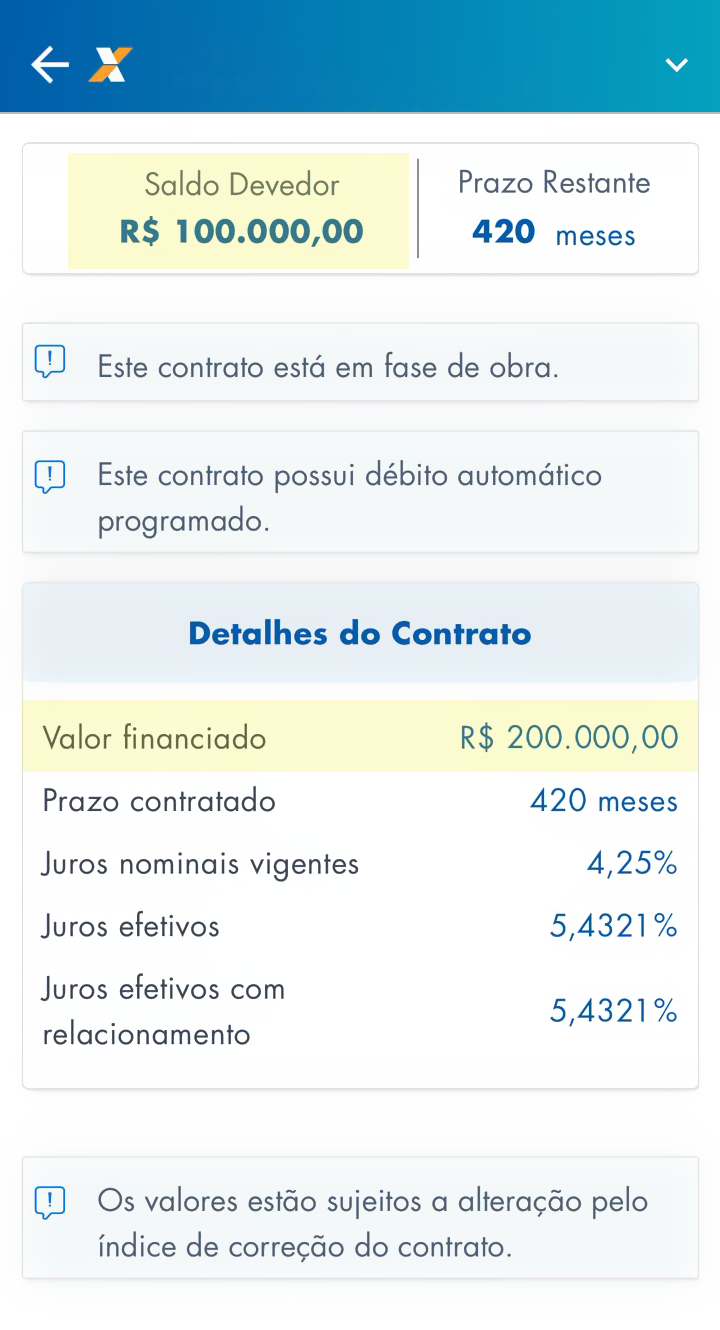
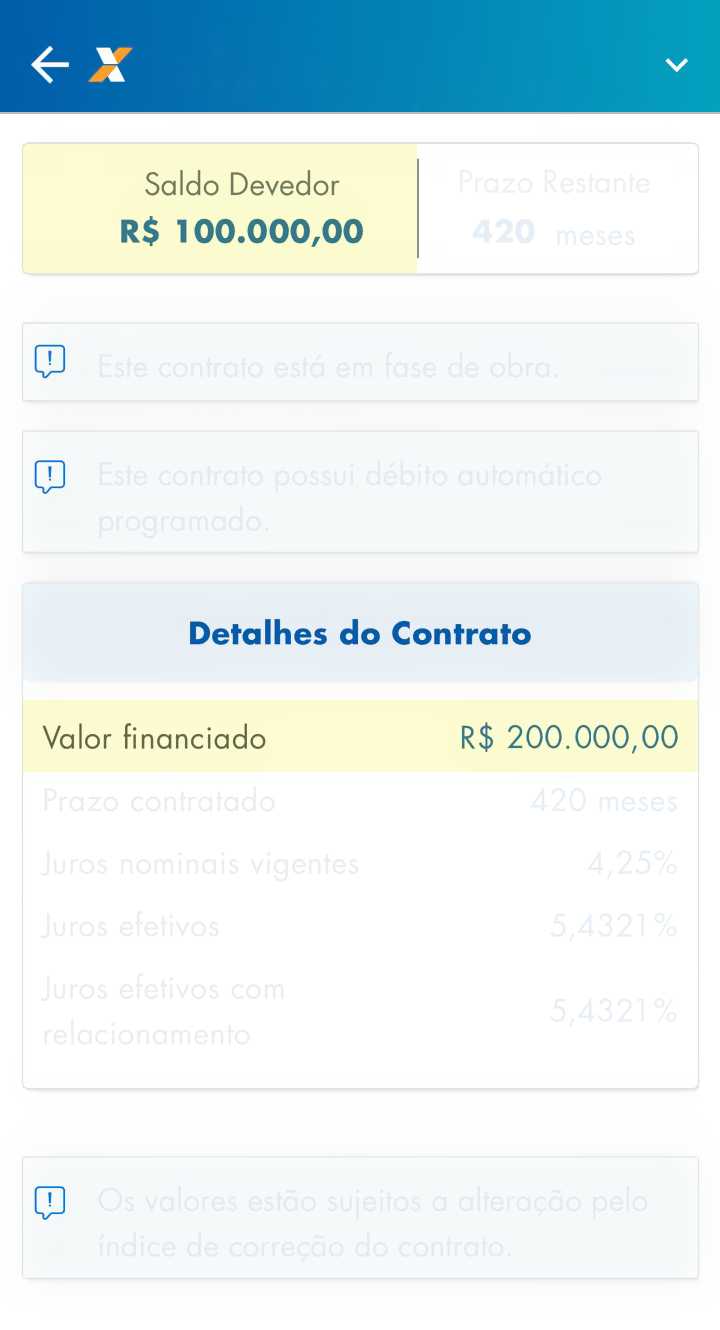
Help pics

diff --git a/js/modules/quickSim.js b/js/modules/quickSim.js
@@ -55,13 +55,13 @@ function renderQuickStep() {
         <span class="pre">R$</span>
         <input type="text" id="qinp-saldo" class="has-pre" placeholder="125.000,00" inputmode="numeric" oninput="maskOnInput(this);this.classList.remove('invalid');_atualizaPercCalculado()">
       </div>
-      <div class="info-box" id="box-perc-calc" style="margin-top: 12px; display:none">
+      <div class="info-box" id="box-perc-calc" style="display: none;">
         📊 Com base nos valores acima, Darwin calculou: <strong>Aproximadamente <span id="perc-calc-valor">—</span></strong>% de evolução de obra
       </div>
 
       <div class="help-section">
         <button class="help-toggle" onclick="toggleHelp('help-tela0')">
-          ❓ Não sabe onde encontrar esses valores? 
+          ❓ Não sabe onde encontrar esses valores? Clique aqui! 
         </button>
         <div class="help-content" id="help-tela0" style="display:none">
           <img src="data/ajuda-extrato-saldo.png" alt="Onde encontrar" class="help-image">
@@ -92,7 +92,7 @@ function renderQuickStep() {
           <span class="d-val" id="val-taxa">—</span>
         </div>
       </div>
-      <div class="info-box" id="box-taxa-info" style="display:none">
+      <div class="info-box" id="box-taxa-info" style="display: none;">
         💡 Aqui utilizamos TR de 0,1000% apenas como exemplo didático. O valor oficial é divulgado pelo Banco Central todos os meses.
       </div>
       
@@ -156,16 +156,21 @@ function renderQuickStep() {
       </div>
       
       ${temDiscrepancia ? `
-        <div class="info-box" style="margin-top:8px;background:var(--warn-bg);border-color:#F6E0A0">
+        <div class="info-box" style="display: none;">
         ⚠️ Atenção: há uma diferença de ${diferenca.toFixed(1)}% entre o % calculado e o informado. Verifique se os valores estão corretos.
-        </div>` : ''}
-      <br>
-
-      <label class="field-label">Mês dessa Medição</label>
-      <div class="label-hint">A qual mês essa % de obra se refere?</div>
-      <input type="month" id="qinp-mes-medido" value="${formQuick.mesMedido || ''}"
-        oninput="this.classList.remove('invalid');_atualizaTRInfo()">
-      <div class="info-box" id="box-tr-info" style="margin-top: 8px; display: none">
+        </div>
+        <br>` : ''}
+      
+      <div class="field-group">
+        <label class="field-label">Mês dessa Medição</label>
+        <div class="label-hint">A qual mês essa % de obra se refere?</div>
+        <div class="month-input-row">
+          <input type="month" id="qinp-mes-medido" value="${formQuick.mesMedido || ''}" oninput="this.classList.remove('invalid');_atualizaTRInfo()">
+          <button type="button" class="btn-current-month" onclick="preencherMesAtual()">Inserir Mês atual</button>
+        </div>
+      </div>
+      
+      <div class="info-box" id="box-tr-info" style="display: none;">
         <span id="tr-info-text"></span>
       </div>`;
 
@@ -321,6 +326,23 @@ function _mesAtual() {
   };
 }
 
+function preencherMesAtual() {
+  const atual = _mesAtual();
+
+  const valor =
+    atual.y + '-' + String(atual.m).padStart(2, '0');
+
+  const el = document.getElementById('qinp-mes-medido');
+
+  if (!el) return;
+
+  el.value = valor;
+
+  formQuick.mesMedido = valor;
+
+  el.classList.remove('invalid');
+}
+
 // ── ASSOCIAR VALOR DE TR COM O JSON PELO MÊS INFORMADO ──
 function _atualizaTRInfo() {
   const el = document.getElementById('qinp-mes-medido');
@@ -343,6 +365,7 @@ function _atualizaTRInfo() {
     box.style.display = 'block';
   }
 }
+
 
 // ── NAVEGAÇÃO ──
 function nextStepQuick() {

diff --git a/style.css b/style.css
@@ -16,8 +16,8 @@
       --border: #E2E0D8;
       --danger: #C0392B;
       --danger-light: #FDF0EF;
-      --warn-bg: #FFF8E6;
-      --warn: #B7791F;
+      --warn-bg: ##FFEFC6;
+      --warn: #81520D;
       --blue-bg: #EEF6FB;
       --blue: #1A5280;
       --radius: 12px;
@@ -303,6 +303,16 @@
         margin-top:16px;
     }
 
+    .month-input-row {
+        display: flex;
+        gap: 8px;
+        align-items: center;
+    }
+
+    .btn-current-month {
+        white-space: nowrap;
+    }
+
     .error-msg {
         font-size: 12px;
         color: var(--danger);
@@ -356,7 +366,7 @@
         padding: 10px 14px;
         font-size: 12px;
         color: var(--warn);
-        margin-top: 8px;
+        margin-top: 10px;
         line-height: 1.5;
     }
 